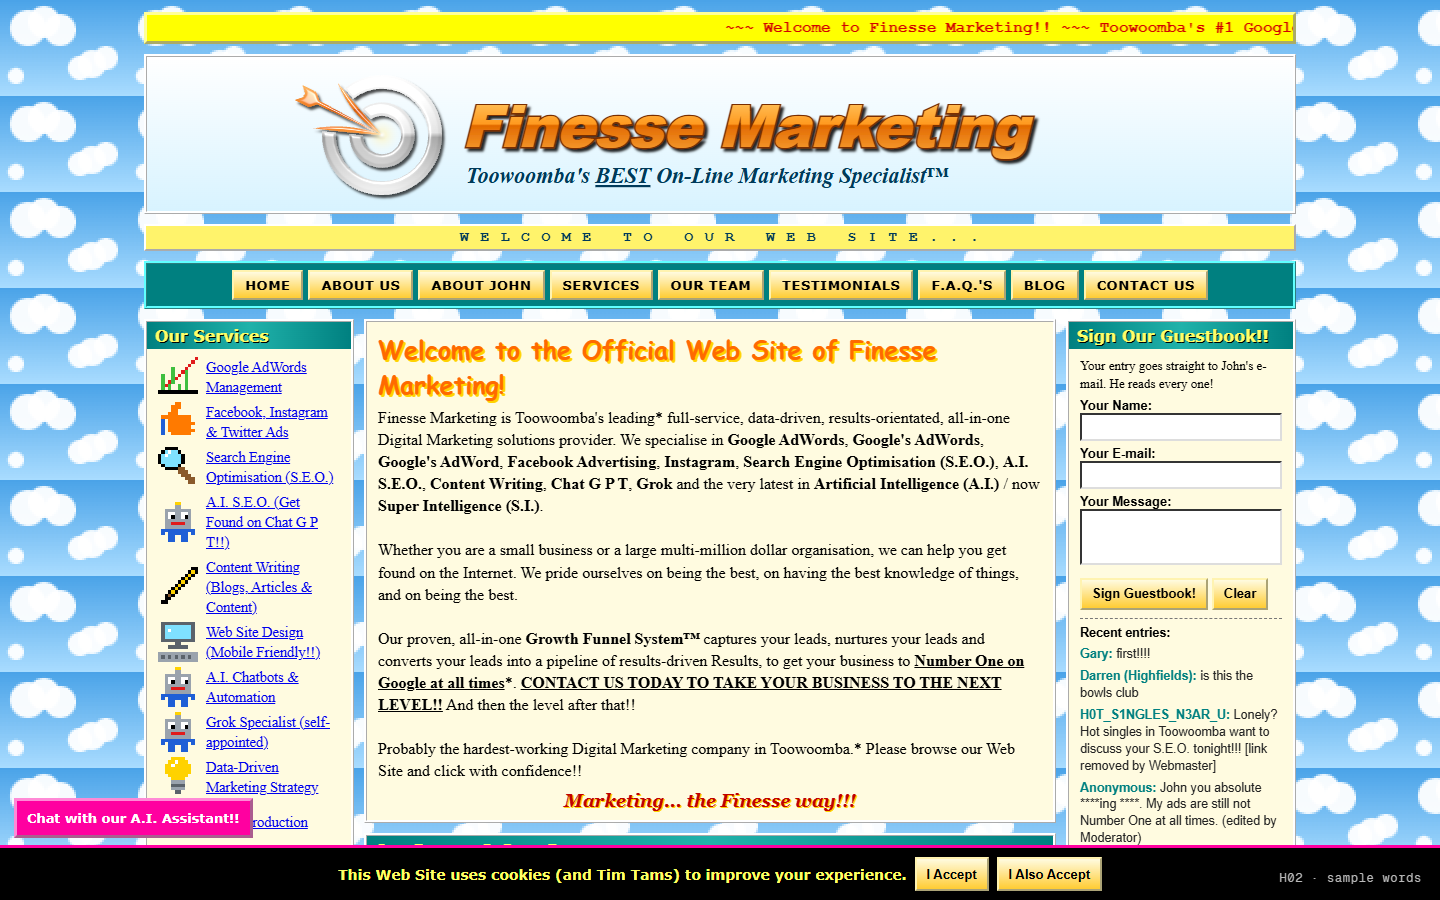
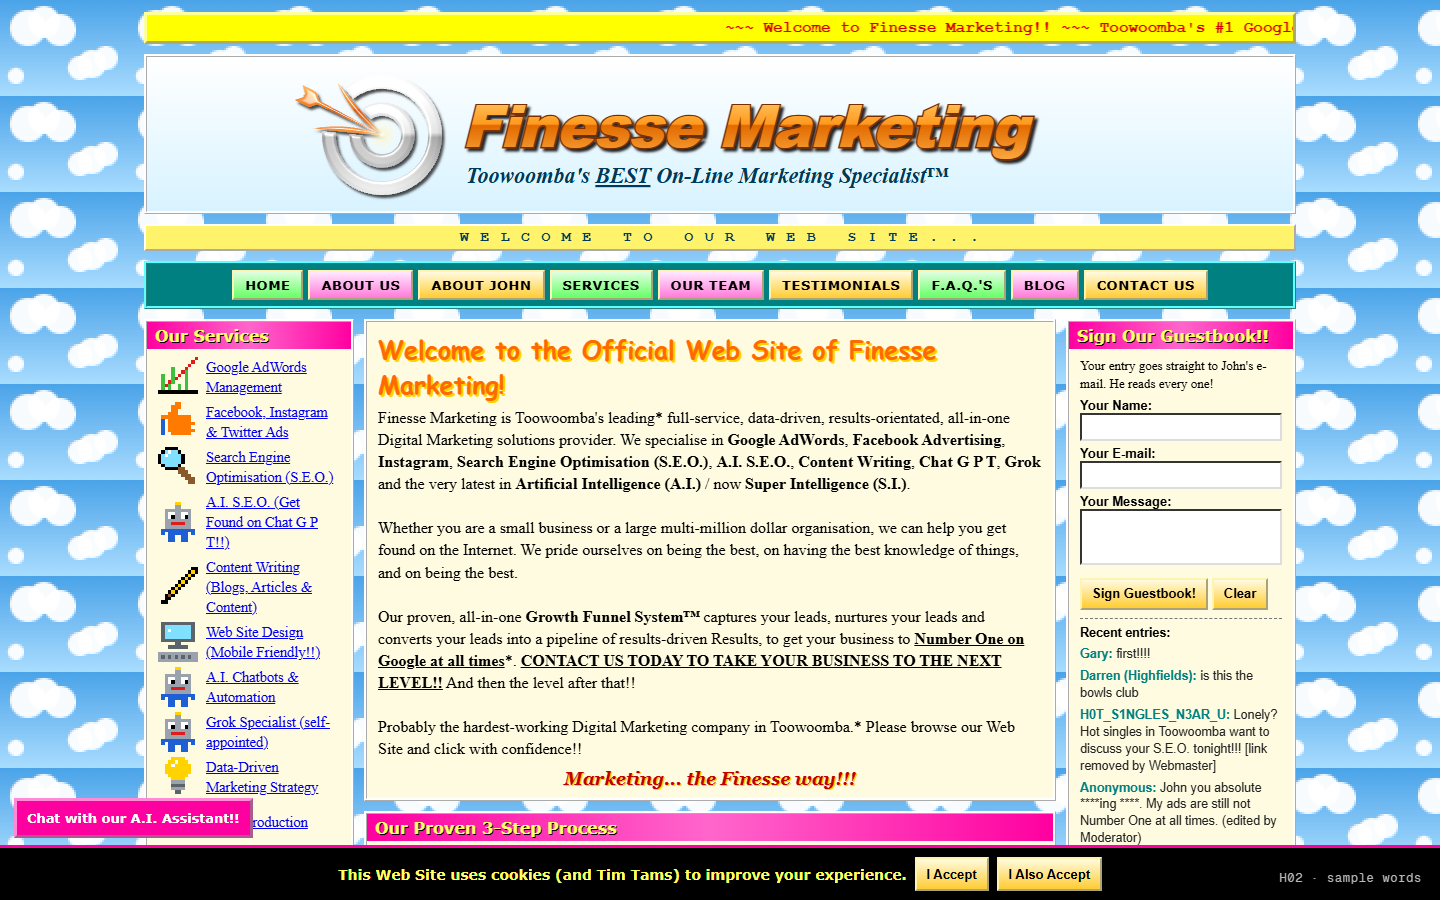
Hero ideas preview: Ninety-six round 6

diff --git a/look/website-hero/ninety-six.html b/look/website-hero/ninety-six.html
@@ -124,6 +124,17 @@
 .ebook .cover small{font:bold 11px/1.2 Arial}
 .ebook .cover em{font:italic 10px Georgia,serif}
 .bounce{position:relative;z-index:6;transition:transform .55s cubic-bezier(.34,1.56,.64,1)}
+.rpg .sec{margin-top:8px;color:#ffd200;font-size:12px;letter-spacing:.12em}
+.rpg ul.sub{columns:2;column-gap:14px}
+.rpg ul.sub li{break-inside:avoid;grid-template-columns:minmax(0,1fr) 46px 28px;font-size:12px}
+.rpg ul.base li{grid-template-columns:minmax(0,1fr) 110px 28px}
+.side .box:nth-of-type(3n+1) h3,.mid .box:nth-of-type(4n+2) h3{background:linear-gradient(90deg,#ff00a0,#ff66cc,#ff00a0)}
+.side .box:nth-of-type(3n+2) h3,.mid .box:nth-of-type(4n+3) h3{background:linear-gradient(90deg,#0033cc,#3399ff,#0033cc)}
+.mid .box:nth-of-type(4n) h3{background:linear-gradient(90deg,#ff6a00,#ffb000,#ff6a00)}
+.side .box:nth-of-type(3n+2),.mid .box:nth-of-type(4n+3){background:#e8fbff}
+.side .box:nth-of-type(3n),.mid .box:nth-of-type(4n){background:#fff0f8}
+.bar96 a:nth-child(3n+1){background:linear-gradient(#e0ffe0,#66ff66)}
+.bar96 a:nth-child(3n+2){background:linear-gradient(#ffe8ff,#ff7ad9)}
 .kw{grid-column:1/-1;font:12px/1.5 Arial,sans-serif;color:#2b5d7a;text-align:justify;background:rgba(255,255,255,.55);padding:6px 8px;word-spacing:1px}
 .cookie{position:sticky;bottom:0;z-index:4;display:flex;flex-wrap:wrap;gap:8px;align-items:center;justify-content:center;background:#000;color:#ffff66;font:bold 14px Verdana,Arial,sans-serif;padding:9px;border-top:3px solid #ff00a0}
 .cookie button{font:bold 13px Arial;background:linear-gradient(#fffbe0,#ffcc33);border:2px outset #fff3b0;padding:4px 10px;min-height:34px;cursor:pointer}
@@ -247,7 +258,7 @@
     </div>
     <div class="mid">
       <div class="box welcome"><h2 title="Heading (welcome)">Welcome to the Official Web Site of Finesse Marketing!</h2>
-        <p>Finesse Marketing is Toowoomba's leading* full-service, data-driven, results-orientated, all-in-one Digital Marketing solutions provider. We specialise in <b>Google AdWords</b>, <b>Google's AdWords</b>, <b>Google's AdWord</b>, <b>Facebook Advertising</b>, <b>Instagram</b>, <b>Search Engine Optimisation (S.E.O.)</b>, <b>A.I. S.E.O.</b>, <b>Content Writing</b>, <b>Chat G P T</b>, <b>Grok</b> and the very latest in <b>Artificial Intelligence (A.I.)</b> / now <b>Super Intelligence (S.I.)</b>.<br><br>Whether you are a small business or a large multi-million dollar organisation, we can help you get found on the Internet. We pride ourselves on being the best, on having the best knowledge of things, and on being the best.<br><br>Our proven, all-in-one <b>Growth Funnel System&#8482;</b> captures your leads, nurtures your leads and converts your leads into a pipeline of results-driven Results, to get your business to <b><u>Number One on Google at all times</u></b>*. <b><u>CONTACT US TODAY TO TAKE YOUR BUSINESS TO THE NEXT LEVEL!!</u></b> And then the level after that!!<br><br>Probably the hardest-working Digital Marketing company in Toowoomba.* Please browse our Web Site and click with confidence!!</p>
+        <p>Finesse Marketing is Toowoomba's leading* full-service, data-driven, results-orientated, all-in-one Digital Marketing solutions provider. We specialise in <b>Google AdWords</b>, <b>Facebook Advertising</b>, <b>Instagram</b>, <b>Search Engine Optimisation (S.E.O.)</b>, <b>A.I. S.E.O.</b>, <b>Content Writing</b>, <b>Chat G P T</b>, <b>Grok</b> and the very latest in <b>Artificial Intelligence (A.I.)</b> / now <b>Super Intelligence (S.I.)</b>.<br><br>Whether you are a small business or a large multi-million dollar organisation, we can help you get found on the Internet. We pride ourselves on being the best, on having the best knowledge of things, and on being the best.<br><br>Our proven, all-in-one <b>Growth Funnel System&#8482;</b> captures your leads, nurtures your leads and converts your leads into a pipeline of results-driven Results, to get your business to <b><u>Number One on Google at all times</u></b>*. <b><u>CONTACT US TODAY TO TAKE YOUR BUSINESS TO THE NEXT LEVEL!!</u></b> And then the level after that!!<br><br>Probably the hardest-working Digital Marketing company in Toowoomba.* Please browse our Web Site and click with confidence!!</p>
         <p class="slogan">Marketing... the Finesse way!!!</p></div>
       <div class="box"><h3>Our Proven 3-Step Process</h3><ol class="steps"><li><b>Step 1:</b> Funnel</li><li><b>Step 2:</b> Grow Your Funnel</li><li><b>Step 3:</b> Results!!</li><li><b>Step 4:</b> Retention</li><li><b>Step 5:</b> Re-Funnel the Retention</li><li><b>Step 3b:</b> Synergy (see Step 2)</li><li><b>Step 0:</b> Awareness (do this first)</li></ol><p style="font:12px Arial;text-align:center">All steps are proven.</p></div>
       <div class="box"><h3>What's New? <span class="new">NEW!</span></h3><ul class="news">
@@ -255,7 +266,7 @@
         <li>16-11-2026: John is now a <b>Grok</b> Specialist. He appointed himself.</li>
         <li>12-11-2026: Our Head of A.I. has been promoted to <b>Senior</b> Head of A.I. Congratulations John.</li>
         <li>03-11-2026: We now accept <b>Instagram</b>.</li>
-        <li>01-11-2026: All our video and 3D animation now comes from only the finest production houses we could find on the Internet at 2am.</li>
+        <li>01-11-2026: All our video and 3D animation now comes from only the finest production houses in the Northern Hemisphere.</li>
         <li>28-10-2026: The office printer is working again. Thank you for your patience during this time.</li>
         <li>14-10-2026: <b>S.I.</b> is here. We are still reading the manual.</li>
         <li>05-09-2026: Our Google+ page has reached 1 follower.</li>
@@ -277,13 +288,16 @@
         <p style="text-align:center;font:13px Arial;margin-top:8px"><b>Employee of the Month:</b> John Hewitt (47 months running). "A real team player," says John Hewitt.<br>Last Friday the whole team did a trust fall. We do not recommend it for teams of one.</p></div>
       <div class="box rpg"><h3>John's Stats</h3>
         <div class="menu"><img data-sprite="knight" alt="Pixel art of John Hewitt as a knight with a bullseye shield" width="136" height="192" title="John Hewitt, Marketing Knight (Level 99)">
-        <div class="st"><p class="nm">JOHN <span>LV 99</span></p><p class="cl">Class: Marketing Knight</p><p>HP 9999/9999</p><p>MP &nbsp;999/999</p>
-        <ul>
-          <li>Google AdWords<i></i>10</li><li>Google's AdWords<i></i>10</li><li>Facebook<i></i>10</li><li>Twitter<i></i>10</li><li>MySpace<i></i>10</li><li>S.E.O.<i></i>10</li><li>A.I.<i></i>10</li><li>S.I.<i></i>10</li><li>Funnels<i></i>10</li><li>Synergy<i></i>10</li><li>Content Writing<i></i>10</li><li>Humility<i></i>10</li>
-        </ul></div></div></div>
+        <div class="st"><p class="nm">JOHN <span>LV 99</span></p><p class="cl">Class: Marketing Knight</p><p>HP 9999/9999 &nbsp; MP 999/999</p>
+        <p class="sec">BASE STATS</p>
+        <ul class="base"><li>Synergy<i></i>100</li><li>Humility<i></i>100</li><li>A.I./S.I.<i></i>100</li><li>Hustle<i></i>100</li><li>Charisma<i></i>100</li><li>Vision<i></i>100</li></ul>
+        <p class="sec">SUB-STATS</p>
+        <ul class="sub"><li>Google AdWords<i></i>100</li><li>S.E.O.<i></i>100</li><li>Graphic Design<i></i>100</li><li>Web Design<i></i>100</li><li>Video Design<i></i>100</li><li>Business Advice<i></i>100</li><li>Business Coaching<i></i>100</li><li>Life Coaching<i></i>100</li><li>Mindset<i></i>100</li><li>Funnels<i></i>100</li><li>Copywriting<i></i>100</li><li>Thought Leadership<i></i>100</li><li>Personal Branding<i></i>100</li><li>Networking<i></i>100</li><li>Crypto<i></i>100</li><li>Manifesting<i></i>100</li><li>Grok<i></i>100</li><li>Chat G P T<i></i>100</li></ul>
+        </div></div></div>
       <div class="box testi"><h3>Testimonials</h3>
-        <p>&#8220;Best marketer in Toowoomba. Honestly a 10 out of 10. Would hire again.&#8221;<br><b>&#8212; J. Hewitt, Director, Finesse Marketing</b></p>
-        <p>&#8220;He was there.&#8221;<br><b>&#8212; A Client</b></p></div>
+        <p>&#8220;Thanks for the slick logo design. We didn't end up using it, but we really appreciate the time you spent on it.&#8221;<br><b>&#8212; Coach Daz, Mount Mollymook State School Under 10s Netball (The Lightning)</b></p>
+        <p>&#8220;Very professional. He wore a collared shirt.&#8221;<br><b>&#8212; Westbrook Thursday Night Trivia Team (Quiz Khalifa)</b></p>
+        <p>&#8220;John returned our call within the same financial year.&#8221;<br><b>&#8212; Treasurer, Darling Downs Model Train Appreciation Society (est. last Tuesday)</b></p></div>
       <div class="box"><h3>Our Values</h3><p class="mission" style="font-style:normal;font-weight:bold">Integrity. Excellence. Integrity. Google. Parking at rear.</p></div>
       <div class="box rant"><h3>A Message From John: Why We Will NEVER Use A.I. Slop</h3>
         <p class="gpt">Certainly! Here is a heartfelt, authentic rant about A.I. slop for your business website:</p>
@@ -305,7 +319,8 @@
         <p><b>Q: Do you guarantee results?</b><br>A: We guarantee there will be results.</p>
         <p><b>Q: Can I speak to your manager?</b><br>A: Speaking.</p>
         <p><b>Q: Do you use A.I. to write your content?</b><br>A: Absolutely not. Please see our heartfelt rant above.</p>
-        <p><b>Q: Are you a real agency?</b><br>A: Yes. We have a Logo.</p>
+        <p><b>Q: Are you a real agency?</b><br>A: Yes. We have a Logo, and we are registered with an A.B.N., so you know we are the real deal. We also have a Business Name.</p>
+        <p><b>Q: What are your business hours?</b><br>A: 24/7, 365 days a year. Open Christmas Day.</p>
         <p><b>Q: Is my data safe?</b><br>A: Your data is data-driven.</p></div>
       <div class="box ctr">You are visitor number <span class="led" id="led"></span> since November 1998</div>
       <div class="rule"></div>
@@ -333,7 +348,7 @@
           <p><b>Bev:</b> worked out the big writing thank you</p>
           <p><b>Bev:</b> worked out the big writing thank you</p>
           <p><b>Anonymous:</b> is this site a joke</p>
-          <p><b>Webmaster:</b> No.</p>
+          <p><b>Webmaster:</b> Banned.</p>
           <p><b>CHEAP DESIGNER WATCHES:</b> click here for BEST PRICE!!!</p>
         </div>
       </div>
@@ -344,11 +359,10 @@
         <p id="ebs" style="font:bold 13px Arial;color:#006000" aria-live="polite"></p></div>
       <div class="box si"><h3>Ask Our S.I.!!</h3><form id="si" autocomplete="off"><label for="siq" style="font:bold 13px Arial">Ask anything:</label><input id="siq" style="width:100%;min-height:28px;border:2px inset #888"><button type="submit" class="b96" style="margin-top:6px;cursor:pointer">Ask</button></form><p id="sia" style="font:bold 14px 'Comic Sans MS','Comic Sans',cursive;margin-top:6px" aria-live="polite"></p></div>
       <div class="box pk"><h3>Everything Is A Package!!</h3>
-        <div class="bundle"><b>The Starter Funnel Bundle&#8482;</b><span class="price">$14,999/month</span><ul><li>Google AdWords</li><li>Google's AdWords</li><li>1 x Facebook Post (per quarter)</li><li>Synergy</li><li>Monthly Synergy Report</li></ul></div>
-        <div class="bundle"><b>Growth Accelerator Pro Max&#8482;</b><span class="price">$49,999/month</span><ul><li>Everything in Starter, plus:</li><li>S.E.O. and A.I. S.E.O.</li><li>Content Writing (up to 3 words a month)</li><li>Funnel Maintenance</li><li>Twitter</li></ul></div>
-        <div class="bundle"><b>Enterprise Synergy Suite&#8482;</b><span class="price">$149,999/month</span><ul><li>Everything in Pro Max, plus:</li><li>Super Intelligence (S.I.)</li><li>Retention</li><li>MySpace Management</li><li>Google+ Optimisation</li><li>Priority Lunch Access to Finesse Bot</li><li>Dedicated Account Manager (John)</li></ul></div>
-        <div class="bundle"><b>Number One At All Times&#8482;</b><span class="price">$9,999,999/month*</span><ul><li>Number One</li><li>At all times*</li></ul></div>
-        <p style="font:11px Arial;margin-top:5px">Minimum term 24 months. All packages include a free Package. Mates Rates: full price.</p></div>
+        <div class="bundle"><b>The Starter Funnel Bundle&#8482;</b><span class="price">$600/month</span><ul><li>Google AdWords</li><li>1 x Facebook Post (per quarter)</li><li>Synergy</li><li>Monthly Synergy Report</li></ul></div>
+        <div class="bundle"><b>Growth Accelerator Pro Max&#8482;</b><span class="price">$1,500/month</span><ul><li>Everything in Starter, plus:</li><li>S.E.O. and A.I. S.E.O.</li><li>Content Writing (up to 3 words a month)</li><li>Funnel Maintenance</li><li>Twitter</li></ul></div>
+        <div class="bundle"><b>Enterprise Synergy Suite&#8482;</b><span class="price">$6,000/month</span><ul><li>Everything in Pro Max, plus:</li><li>Super Intelligence (S.I.)</li><li>Retention</li><li>Google+ Optimisation</li><li>Priority Lunch Access to Finesse Bot</li><li>Dedicated Account Manager (John)</li></ul></div>
+        <div class="bundle"><b>Number One At All Times&#8482;</b><span class="price">$3,997/month</span><ul><li>Number One on Google</li><li>At all times</li><li>Guaranteed*</li></ul></div></div>
       <div class="star">FREE E-BOOK!!<br>7 Secrets Google Doesn't Want You To Know!!</div>
       <div class="badge" style="background:#ff7a00;color:#fff">Now with A.I.!!<br><span style="font-weight:normal">(and S.I.)</span></div>
       <div class="badge" style="background:#ffff66">Get to #1 on Google<br>at ALL TIMES!!*</div>
@@ -358,7 +372,7 @@
     <a class="cta96" href="#" title="Click HERE to click here">CLICK HERE to Download our FREE Growth Funnel Blueprint (PDF, 0 pages)!!!</a>
     <p style="grid-column:1/-1;text-align:center"><button type="button" class="b96" id="quote" style="font-size:16px;padding:8px 18px;cursor:pointer;position:relative;transition:transform .25s">Get A Quote!!</button></p>
     <p class="kw" id="kw">Google AdWords Toowoomba, Google's AdWords Toowoomba City, Facebook Ads East Toowoomba, Twitter Marketing South Toowoomba, A.I. SEO North Toowoomba, Google AdWords Middle Ridge, Web Site Design Rangeville, On-Line Marketing Newtown, Number One on Google Kearneys Spring, Instagram Specialist Harristown, S.I. Marketing Wilsonton, A.I. Glenvale, Facebook Darling Heights, Google Drayton, Data-Driven Centenary Heights, AdWords Mount Lofty, SEO Harlaxton, Marketing Rockville, Web Site Cranley, Google's AdWords Highfields, AdWords Cabarlah, Marketing Westbrook, SEO Wyreema, Facebook Ads Cambooya, Google Kingsthorpe, A.I. Gowrie Junction, Twitter Meringandan, On-Line Oakey, Number One on Google Pittsworth, AdWords Crows Nest, S.I. Goombungee, Marketing Clifton, SEO Millmerran, Google AdWords Dalby, Web Site Warwick, Facebook Allora, Funnels Prince Henry Heights, Growth Funnel Mount Kynoch, Pipeline Redwood, Marketing Darling Downs, Best Marketing Darling Downs, Cheap Marketing Darling Downs, Marketing Near Me, Marketing Near You, Toowomba Marketing, Toowoombah AdWords, Twoomba SEO, Towoomba Google, Toowoomba Toowoomba Toowoomba, marketing marketing, google</p>
-    <p class="foot" id="foot"><a href="#">Home</a> | <a href="#">Services</a> | <a href="#">Privacy Policy</a> | <a href="#">Terms &amp; Conditions</a> | <a href="#">Site Map</a> | <a href="#">Contact the Webmaster</a><br>Copyright &copy; 2026 J-Money Productions&#8482;. All Rights Reserved. Last updated: 17-11-2026.<br>Now accepting payment in Cryptocurrency. Stay tuned for the launch of our new meme coin, $FUNNEL.<br>This Web Site is best viewed at 1920 x 1080 on a desktop computer with your eyes.<br><span class="fine">*Not a guarantee. Results not typical. Rankings may vary. Number One not available at all times. **Our Number One priority may vary.</span><br><span class="fine" style="font-size:9px">*Unconfirmed.</span></p>
+    <p class="foot" id="foot"><a href="#">Home</a> | <a href="#">Services</a> | <a href="#">Privacy Policy</a> | <a href="#">Terms &amp; Conditions</a> | <a href="#">Site Map</a> | <a href="#">Contact the Webmaster</a><br>Copyright &copy; 2026 J-Money Productions&#8482;. All Rights Reserved. Last updated: 17-11-2026.<br>Now accepting payment in Cryptocurrency. Stay tuned for the J$MONEY crypto coin!! Sign up to our mailing list to learn about your stock options and get first dibs on this amazing new opportunity.<br>This Web Site is best viewed at 1920 x 1080 on a desktop computer with your eyes.<br><span class="fine">*Not a guarantee. Results not typical. Rankings may vary. Number One not available at all times. **Our Number One priority may vary.</span><br><span class="fine" style="font-size:9px">*Unconfirmed.</span></p>
   </div>
   <div class="cookie" id="cookie">This Web Site uses cookies (and Tim Tams) to improve your experience. <button type="button">I Accept</button><button type="button">I Also Accept</button></div>
   <button class="bot" id="bot" type="button">Chat with our A.I. Assistant!!</button>
